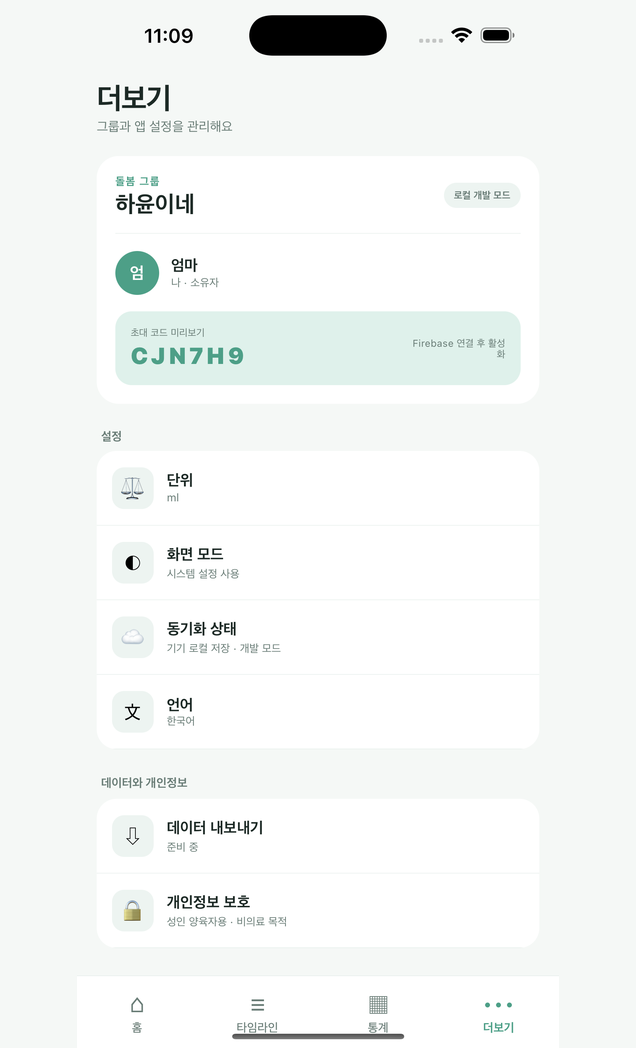
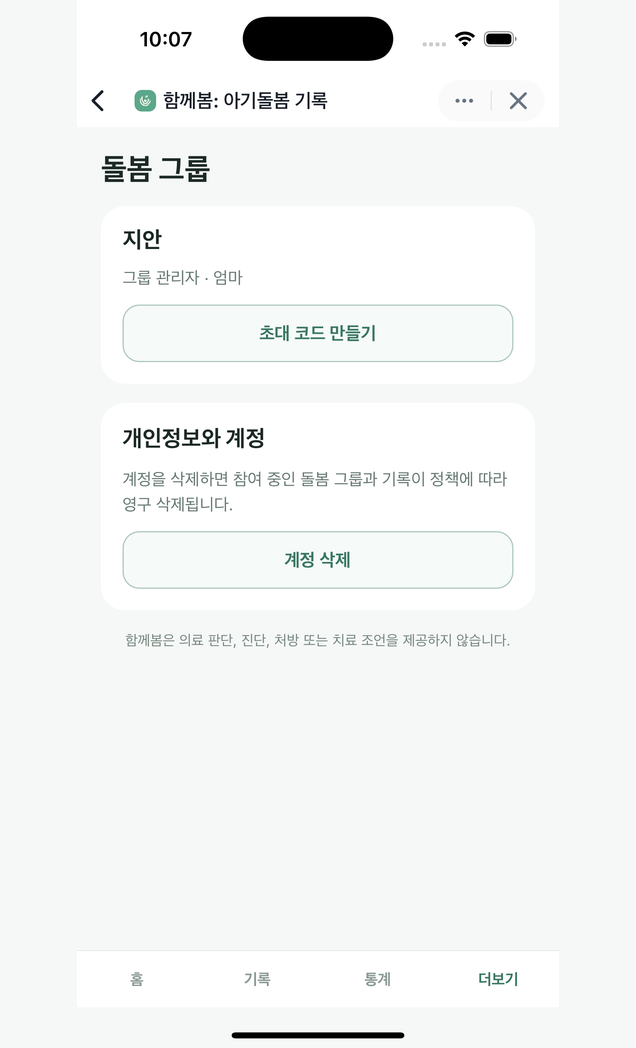
AppsInToss 등록 스크린샷을 sandbox 실제 화면으로 교체한다 (#44)
* AppsInToss 등록 스크린샷을 sandbox 실제 화면으로 교체한다

등록본 5장이 같은 제품의 apps/mobile native 화면을 규격에 맞춘 것이라
실제 미니앱 UI와 달랐다. AppsInToss sandbox에서 미니앱을 실행해
온보딩·홈·기록·통계·더보기를 직접 캡처하고 636x1048로 교체했다.

교체의 선행 조건으로 로컬 dev 실행 배선을 고쳤다. granite dev는
granite.config.ts의 esbuild define을 적용하지 않아 dev 번들의
FIREBASE_WEB_API_KEY가 비어 첫 화면이 Firebase 연결 오류로 멈췄다.
babel에서 인라인하도록 바꿨고, 환경변수가 우선이라 CI 동작은 그대로다.
로컬은 gitignore된 apps/ait/.env를 읽는다.

check-store-screenshots.mjs에 AppsInToss 세트를 추가해 마켓 5세트
25컷의 크기·구성을 저장소에서 검사한다.

* 스크린샷·키 주입 계약을 CI 게이트로 고정한다

check:screenshots가 check_release_readiness.sh에만 있어 PR CI에서는
돌지 않았다. test:static에 넣어 PR마다 검사한다.

AppsInToss 세트에 알파 없는 8bit RGB 검사를 추가한다. 이 요구는
AppsInToss 전용이라 세트 속성으로 좁혔다. App Store는 현재 등록되어
COMPLETE 상태인 컷이 모두 RGBA라 강제하지 않는다.

dev(Metro/babel)와 배포(esbuild define)의 FIREBASE_WEB_API_KEY 주입
경로를 함께 고정하는 테스트와, 등록 매니페스트가 실제 스크린샷
파일과 일치하는지 확인하는 테스트를 추가한다.

diff --git a/apps/ait/babel.config.js b/apps/ait/babel.config.js
@@ -1,3 +1,98 @@
-module.exports = {
-  presets: ['babel-preset-granite'],
+// eslint-disable-next-line @typescript-eslint/no-var-requires
+const fs = require('fs');
+// eslint-disable-next-line @typescript-eslint/no-var-requires
+const path = require('path');
+
+// `granite build`는 granite.config.ts의 esbuild define으로 값을 넣지만 `granite dev`는
+// Metro/babel 경로라 그 define이 적용되지 않는다. 그래서 dev 번들에서는
+// `process.env.FIREBASE_WEB_API_KEY`가 비어 첫 화면이 Firebase 연결 오류로 멈춘다.
+// 두 경로가 같은 값을 보도록 babel에서 인라인한다. CI는 환경변수로, 로컬은 gitignore된
+// `apps/ait/.env`로 주입한다.
+const INLINED_ENV_KEYS = ['FIREBASE_WEB_API_KEY'];
+
+function readDotenv() {
+  const file = path.join(__dirname, '.env');
+  let raw;
+  try {
+    raw = fs.readFileSync(file, 'utf8');
+  } catch {
+    return {};
+  }
+  const values = {};
+  for (const line of raw.split('\n')) {
+    const match = /^\s*(?:export\s+)?([A-Za-z_][A-Za-z0-9_]*)\s*=\s*(.*)$/.exec(line);
+    if (!match) {
+      continue;
+    }
+    values[match[1]] = match[2].trim().replace(/^(['"])(.*)\1$/, '$2');
+  }
+  return values;
+}
+
+function resolveInlinedEnv() {
+  const dotenv = readDotenv();
+  const values = {};
+  for (const key of INLINED_ENV_KEYS) {
+    // 환경변수가 우선이라 CI 동작은 바뀌지 않는다.
+    const value = process.env[key] ?? dotenv[key];
+    if (value) {
+      values[key] = value;
+    }
+  }
+  return values;
+}
+
+// 값이 있는 키만 문자열 리터럴로 바꾼다. 값이 없으면 원본 표현식을 그대로 두어
+// `?? ''` fallback과 build 경로의 define이 그대로 동작한다.
+function inlineEnvPlugin({types: t}, options) {
+  const values = options.values ?? {};
+  return {
+    name: 'inline-granite-env',
+    visitor: {
+      MemberExpression(nodePath) {
+        const {node} = nodePath;
+        if (node.computed || !t.isIdentifier(node.property)) {
+          return;
+        }
+        const value = values[node.property.name];
+        if (value === undefined) {
+          return;
+        }
+        // `process.env.X ??= '...'`처럼 대입 대상이면 리터럴로 바꿀 수 없다.
+        const parent = nodePath.parent;
+        if (
+          (t.isAssignmentExpression(parent) && parent.left === node) ||
+          (t.isUpdateExpression(parent) && parent.argument === node) ||
+          (t.isUnaryExpression(parent, {operator: 'delete'}) && parent.argument === node)
+        ) {
+          return;
+        }
+        const object = node.object;
+        if (
+          !t.isMemberExpression(object) ||
+          object.computed ||
+          !t.isIdentifier(object.object, {name: 'process'}) ||
+          !t.isIdentifier(object.property, {name: 'env'})
+        ) {
+          return;
+        }
+        nodePath.replaceWith(t.stringLiteral(value));
+      },
+    },
+  };
+}
+
+module.exports = function babelConfig(api) {
+  // jest는 node에서 그대로 실행돼 process.env를 읽을 수 있으므로 인라인하지 않는다.
+  // 인라인하면 jest.setup의 테스트용 기본값이 무시된다.
+  const values = api.env('test') ? {} : resolveInlinedEnv();
+  // 주입값이 바뀌면 babel 캐시를 무효화한다.
+  api.cache.invalidate(() => JSON.stringify(values));
+  return {
+    presets: ['babel-preset-granite'],
+    plugins: [[inlineEnvPlugin, {values}]],
+  };
 };
+
+module.exports.inlineEnvPlugin = inlineEnvPlugin;
+module.exports.resolveInlinedEnv = resolveInlinedEnv;

diff --git a/apps/ait/babel.config.test.ts b/apps/ait/babel.config.test.ts
@@ -1,0 +1,41 @@
+// `granite dev`가 esbuild define을 적용하지 않아 babel에서 환경변수를 인라인한다.
+// 잘못 인라인하면 dev 번들이 조용히 깨지므로 치환 규칙을 고정한다.
+// eslint-disable-next-line @typescript-eslint/no-require-imports
+const {transformSync} = require('@babel/core');
+// eslint-disable-next-line @typescript-eslint/no-require-imports
+const {inlineEnvPlugin} = require('./babel.config.js');
+
+function transform(code: string): string {
+  const result = transformSync(code, {
+    babelrc: false,
+    configFile: false,
+    plugins: [[inlineEnvPlugin, {values: {FIREBASE_WEB_API_KEY: 'inlined-key'}}]],
+  });
+  return String(result?.code);
+}
+
+describe('inlineEnvPlugin', () => {
+  it('읽기 위치의 process.env 값을 문자열 리터럴로 바꾼다', () => {
+    const output = transform("const k = process.env.FIREBASE_WEB_API_KEY ?? '';");
+    expect(output).toContain('inlined-key');
+    expect(output).not.toContain('process.env.FIREBASE_WEB_API_KEY');
+  });
+
+  it('대입 대상은 그대로 둔다', () => {
+    const output = transform("process.env.FIREBASE_WEB_API_KEY ??= 'fallback';");
+    expect(output).toContain('process.env.FIREBASE_WEB_API_KEY');
+    expect(output).not.toContain("'inlined-key'");
+  });
+
+  it('주입 대상이 아닌 키는 건드리지 않는다', () => {
+    expect(transform('const n = process.env.NODE_ENV;')).toContain(
+      'process.env.NODE_ENV',
+    );
+  });
+
+  it('process.env가 아닌 동일 이름 속성은 건드리지 않는다', () => {
+    expect(transform('const k = config.FIREBASE_WEB_API_KEY;')).toContain(
+      'config.FIREBASE_WEB_API_KEY',
+    );
+  });
+});

diff --git a/docs/05-markets/apps-in-toss.md b/docs/05-markets/apps-in-toss.md
@@ -22,7 +22,7 @@
 - Logo: AppsInToss Console 등록 완료
 - Logo source file: `apps-in-toss/assets/logo-600.png` — 600×600 RGB 검증
 - Thumbnail: `apps-in-toss/assets/thumbnail-1932x828.png` — 1932×828 RGB 검증
-- Vertical screenshots: `apps-in-toss/screenshots/*.png` — 636×1048 RGB 5장 검증
+- Vertical screenshots: `apps-in-toss/screenshots/*.png` — 636×1048 RGB 5장 검증. **2026-08-08에 AppsInToss sandbox에서 실행한 실제 미니앱 화면으로 교체했다** — 온보딩·홈·기록·통계·더보기. 이전 등록본은 같은 제품의 `apps/mobile` native 화면을 규격에 맞춘 것이라 미니앱 UI와 달랐다. 크기·구성은 `node scripts/check-store-screenshots.mjs`가 검사한다
 - Brand color: `#5FB49C`
 - Initial route branding: `함께봄` 제품 화면 반영
 - Privacy URL: `https://www.seorilabs.com/privacy/`
@@ -30,8 +30,8 @@
 - Terms URL: `https://www.seorilabs.com/terms/` — Seorilabs 앱·서비스 공용 이용약관, 2026-08-07 live 200 확인
 - 추가 in-app feature: 없음 — v1은 root `/`의 `돌봄 기록하기` 1개만 Console 등록 후보로 유지
 
-현재 screenshot은 같은 제품의 native 화면을 AppsInToss 규격에 맞춘 후보다. 실제 AIT sandbox UI를
-캡처해 기능·화면 일치성을 확인한 뒤 Console 등록본을 교체한다.
+screenshot은 sandbox에서 실행한 미니앱 실제 화면이다. 저장소 자산은 교체를 마쳤고 Console 업로드는
+수동 절차로 남아 있다.
 
 ## Release
 
@@ -41,7 +41,9 @@
 - Private entry: `intoss-private://babynest?_deploymentId=019fd827-571d-791d-bd50-08f2da35afec`
 - Console test push: 최신 `20260807-3` 번들을 요청자 본인 Toss 앱으로 발송했고 `isTested=true` readback 완료(2026-08-07). 실제 기기에서 열어 기능을 확인한 증거는 아직 없음
 - Candidate evidence: Granite/TDS 핵심 UI, AppsInToss Storage, 운영 Auth/Firestore/Functions adapter 구현. production 두 계정 그룹 생성→기록→초대→합류→공동 조회→삭제 E2E 통과
-- Sandbox QA device: iOS 18.1 `iPhone 16 Pro` simulator (`07D9A5CC-AB1D-43AA-915F-7A8128044B5B`). 공식 `apps-in-toss-sandbox-202606022149.zip`의 `AppsInTossSandbox.app` (`com.vivarepublica.ent.cash.test`) 설치·로그인 화면 실행 완료 / Console 계정 로그인·Toss 인증 대기
+- Sandbox QA device: iOS 18.1 `iPhone 16 Pro` simulator (`07D9A5CC-AB1D-43AA-915F-7A8128044B5B`). 공식 `apps-in-toss-sandbox-202606022149.zip`의 `AppsInTossSandbox.app` (`com.vivarepublica.ent.cash.test`) 설치 완료
+- **로컬 dev server 경로는 Console 로그인이 필요 없다 (2026-08-08 실측).** 샌드박스 앱이 실행 중일 때 `xcrun simctl openurl <UDID> "intoss-sandbox://babynest"`를 열고 iOS 확인 다이얼로그에서 `열기`를 누르면 Toss 호스트 chrome 안에서 미니앱이 로드된다. `granite dev`는 포트 8081이어야 하고, cold start로 열면 Console 로그인 화면으로 떨어진다. 절차는 `apps-in-toss/README.md` 참고
+- 이 경로로 2026-08-08에 온보딩→그룹 생성→수유·기저귀·수면 기록→탭 전환까지 운영 Firebase 대상으로 실행하고 화면을 캡처했다. Console 로그인이 필요한 것은 배포된 번들을 여는 경우다
 - Console review: 승인 완료(2026-08-04 readback)
 - Ads/payment policy answers: **광고 없음 · 인앱 결제 없음 · Toss Pay 없음** — v1 무료·무광고·무구독 ADR과 `apps/ait` 의존성·호출 기준 확정. Console readback은 로그인 세션 연결 뒤 확인
 - Release review prerequisite: Console test push·`isTested=true`는 완료. 실제 Toss 앱에서 private scheme을 열어 기능을 확인한 뒤 in-app feature와 함께 검수 요청

diff --git a/docs/04-work/work-log.md b/docs/04-work/work-log.md
@@ -1,5 +1,29 @@
 # Work Log
 
+## 2026-08-08 — AppsInToss 등록 스크린샷을 sandbox 실제 화면으로 교체
+
+- 등록본 5장이 같은 제품의 `apps/mobile` native 화면을 규격에 맞춘 것이라 미니앱 UI와 달랐다. AppsInToss sandbox에서 미니앱을 실행해 온보딩·홈·기록·통계·더보기를 직접 캡처하고 636×1048로 교체했다. 컷 이름도 실제 화면 구성에 맞춰 `01-start`·`02-home`·`03-timeline`·`04-stats`·`05-more`로 바꿨다.
+- 캡처는 운영 Firebase 대상 실제 동작이다. 온보딩으로 그룹을 만들고 수유 4회·기저귀 3회·수면 1건을 기록한 뒤 탭을 이동했다. 촬영용 계정은 앱의 `계정 삭제`로 정리했다.
+- `scripts/check-store-screenshots.mjs`에 AppsInToss 세트를 추가해 마켓 5세트 25컷의 크기·구성을 저장소에서 검사한다. 세트별로 컷 이름이 달라 `shots`를 세트 속성으로 옮겼다.
+
+### 로컬 dev 실행 배선을 고쳤다
+
+- `granite dev`는 `granite.config.ts`의 `build.esbuild.define`을 적용하지 않는다. dev는 Metro/babel 경로라 define이 무시되고, 그래서 dev 번들의 `process.env.FIREBASE_WEB_API_KEY`가 빈 문자열이 되어 미니앱 첫 화면이 `Firebase 연결 설정을 불러오지 못했어요`에서 멈췄다. 키가 주입되는 것은 CI의 `ait build`뿐이라 로컬 dev/QA가 구조적으로 불가능했다.
+- `apps/ait/babel.config.js`에서 인라인하도록 바꿨다. 환경변수가 우선이라 CI 동작은 그대로고, 로컬은 gitignore된 `apps/ait/.env`를 읽는다. jest는 node에서 `process.env`를 그대로 읽으므로 test env에서는 인라인하지 않는다.
+- `process.env.X ??= '...'`처럼 대입 대상인 표현식을 리터럴로 바꾸면 babel이 죽는다. `jest.setup.ts`가 실제로 그 형태여서 처음 실행이 실패했다. 치환·비치환 규칙은 `apps/ait/babel.config.test.ts`로 고정했다.
+
+### sandbox는 Console 로그인이 필요 없다
+
+- 원장에는 `Console 계정 로그인·Toss 인증 대기`로 적혀 있었지만 그건 배포된 번들을 열 때다. 로컬 dev server 경로는 로그인을 우회한다. 샌드박스 앱이 실행 중일 때 `xcrun simctl openurl <UDID> "intoss-sandbox://babynest"`를 열고 iOS 확인 다이얼로그에서 `열기`를 누르면 Toss 호스트 chrome 안에서 미니앱이 로드된다.
+- `granite dev`는 포트 8081이어야 한다. 다른 포트면 샌드박스가 `로컬서버를 찾을 수 없습니다`를 띄운다. 앱이 떠 있지 않은 상태에서 scheme을 열면 Console 로그인 화면으로 떨어진다.
+- 합성 Cmd+V는 RN `TextInput`에 닿지 않고, AppleScript `keystroke`로 보낸 한글은 글리프가 깨진다. `xcrun simctl pbcopy`로 기기 pasteboard에 넣고 길게 눌러 `붙여넣기` 메뉴를 탭해야 한다. 숫자·하이픈은 `keystroke`로 들어간다.
+- Simulator 창 보정은 `Window > Show Device Bezels`를 끄고 `Point Accurate`로 두면 창 너비 = 기기 화면 너비가 되어 계산이 정확해진다. iPhone 16 Pro는 창 402×926, 화면 402×874, 타이틀바 52pt다.
+
+### 남은 것
+
+- Console 업로드·readback은 수동 절차로 남아 있다.
+- `apps/ait/src/pages/index.tsx`가 TDS 컴포넌트를 쓰지 않는다. `_app.tsx`의 `TDSProvider`만 있고 화면은 RN primitive다. 비게임 미니앱은 TDS 사용이 요구되므로 검수 리스크로 남긴다.
+
 ## 2026-08-08 — en-US 스크린샷 ASC 업로드
 
 - `en-US` localization(`fb6c5f74-0547-47f9-ab4d-1614a7121c86`)에 `APP_IPHONE_67`·`APP_IPAD_PRO_3GEN_129` set을 새로 만들고 각 5컷을 업로드했다. asset delivery state 10건 모두 `COMPLETE`를 readback했다.

diff --git a/docs/06-release/release-checklist.md b/docs/06-release/release-checklist.md
@@ -23,7 +23,8 @@
 - [x] i18n 포함 App Store 후보 재빌드 — `v1.0.9` / `fe2b4b1`, Xcode Cloud run `7faf6504-20e4-4064-a5f8-281dba2ce430`, ASC build `95e65693-70a5-42cf-9590-d63e385a9951`(`1.0.9`/`57`, `VALID`, `APP_STORE_ELIGIBLE`), 2026-08-08
 - [x] `1.0.9`/build 57을 ASC 버전 레코드·내부 TestFlight 그룹에 연결 — `versionString=1.0.9`, `related build=95e65693`, `internalBuildState=IN_BETA_TESTING` readback, 2026-08-08
 - [x] `en-US` 영어 UI 스크린샷 촬영·업로드 — `v1.0.9` Release 시뮬레이터에서 6.9" 5컷·13" iPad 5컷 캡처 후 ASC `APP_IPHONE_67`·`APP_IPAD_PRO_3GEN_129`에 업로드, delivery state 10건 `COMPLETE` readback, 2026-08-08
-- [ ] AppsInToss metadata와 config 확정 — 진행: 승인된 이름·카테고리·아이콘·지원 이메일·브랜드 색상, 600×600 logo·1932×828 thumbnail·636×1048 screenshot 5장 exact-size/RGB 검증, v1 광고·인앱 결제·Toss Pay 없음, Terms URL과 root in-app feature 1개 확정 / 남음: 실제 AIT sandbox 화면 screenshot 교체·Console readback
+- [ ] AppsInToss metadata와 config 확정 — 진행: 승인된 이름·카테고리·아이콘·지원 이메일·브랜드 색상, 600×600 logo·1932×828 thumbnail·636×1048 screenshot 5장 exact-size/RGB 검증, v1 광고·인앱 결제·Toss Pay 없음, Terms URL과 root in-app feature 1개 확정, **sandbox 실행 미니앱 화면으로 screenshot 5장 교체**(온보딩·홈·기록·통계·더보기, 2026-08-08) / 남음: Console 업로드·readback
+- [x] AppsInToss 로컬 dev 실행 배선 — `granite dev`가 `granite.config.ts`의 esbuild define을 적용하지 않아 dev 번들의 `FIREBASE_WEB_API_KEY`가 비어 첫 화면이 Firebase 연결 오류로 멈추던 문제를 babel 인라인으로 해결했다. CI는 환경변수, 로컬은 gitignore된 `apps/ait/.env`. 치환 규칙은 `apps/ait/babel.config.test.ts`가 고정한다(2026-08-08)
 - [x] Firebase rules/indexes/functions와 local test 코드 구현 — `members.userId` collection-group index 운영 `READY` 포함
 - [x] platform custom token bridge client와 기존 anonymous UID 보존 회귀 구현
 - [x] platform `platform-auth@seorilabs-babycare` SA·resource-level Token Creator·registry sync·API 배포 — 최초 활성화 workflow run `30750253253`, revision `platform-api-00015-xpx`

diff --git a/apps-in-toss/README.md b/apps-in-toss/README.md
@@ -8,5 +8,20 @@ AppsInToss Console 등록 metadata, 검증된 이미지 자산과 release readba
 - `screenshots/`: 636×1048 세로 screenshot 5장
 
 이미지는 `registration-assets` 공통 validator와 AppsInToss 전용 validator를 모두 통과해야 한다.
-현재 screenshot은 같은 제품의 App Store 캡처를 규격에 맞춘 후보이며, 실제 AIT sandbox UI 캡처로
-교체한 뒤 Console에 등록한다.
+screenshot 5장은 AppsInToss sandbox에서 실행한 실제 미니앱 화면 캡처다(2026-08-08).
+크기·구성은 `node scripts/check-store-screenshots.mjs`가 저장소에서 검사한다.
+
+## sandbox에서 미니앱 실행하기
+
+Console 로그인 없이 로컬 dev server 번들로 실행할 수 있다.
+
+```bash
+echo "FIREBASE_WEB_API_KEY=<값>" > apps/ait/.env   # gitignore 대상
+pnpm --dir apps/ait dev                            # 포트 8081 고정
+xcrun simctl launch <UDID> com.vivarepublica.ent.cash.test
+xcrun simctl openurl <UDID> "intoss-sandbox://babynest"
+```
+
+- 포트를 바꾸면 샌드박스가 "로컬서버를 찾을 수 없습니다"를 띄운다.
+- 샌드박스 앱이 이미 떠 있어야 한다. cold start로 열면 Console 로그인 화면으로 떨어진다.
+- iOS 확인 다이얼로그에서 `열기`를 눌러야 미니앱이 로드된다.
